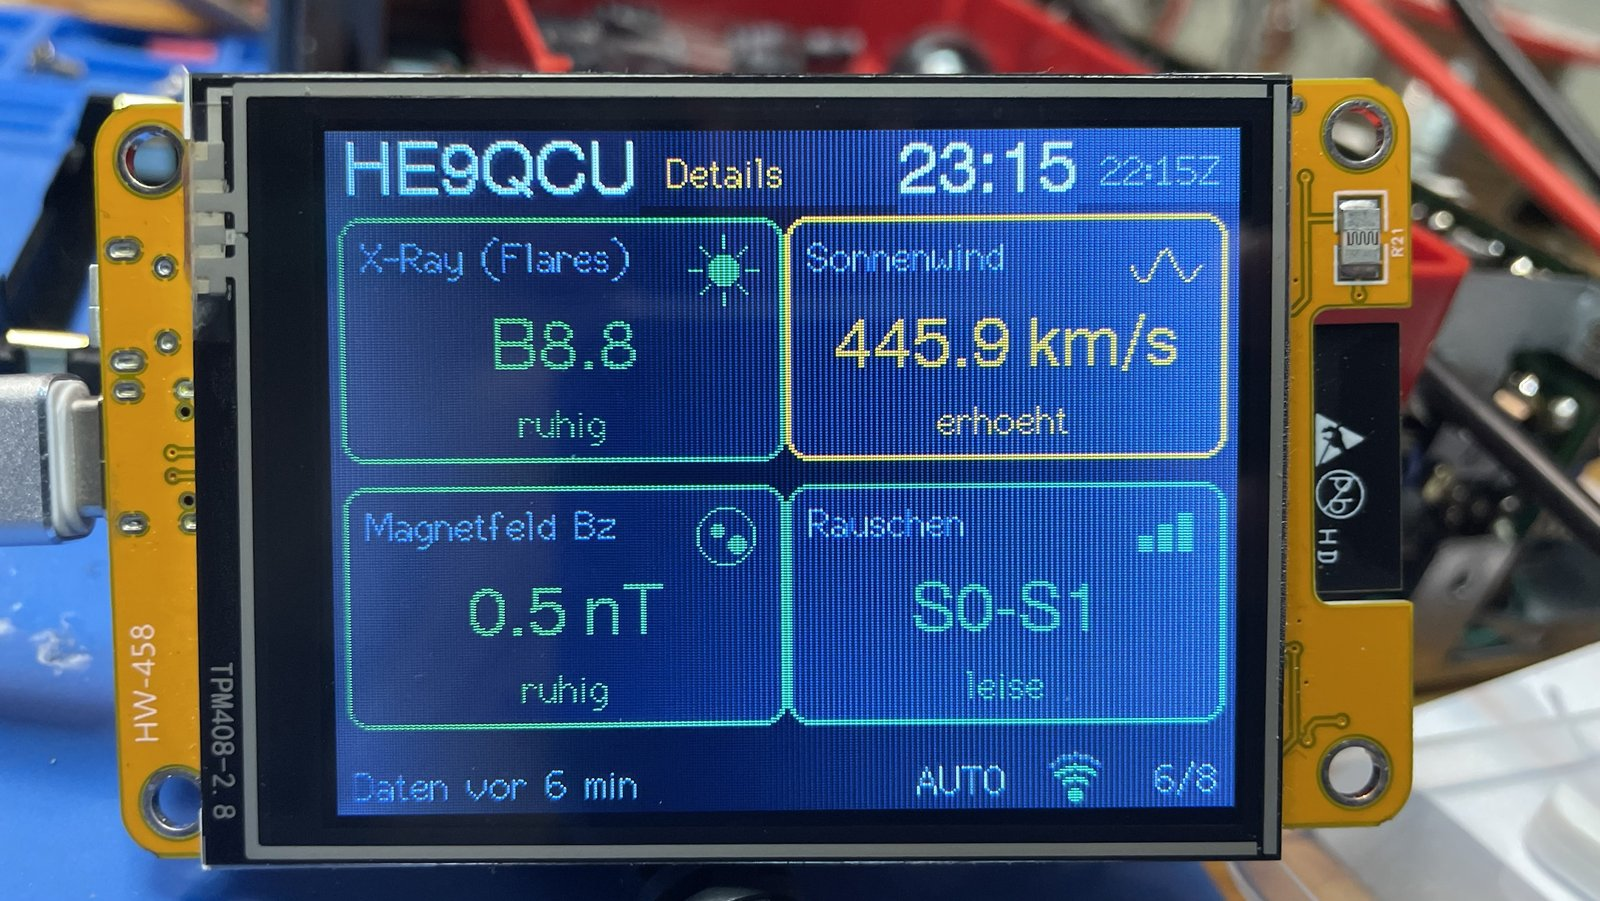
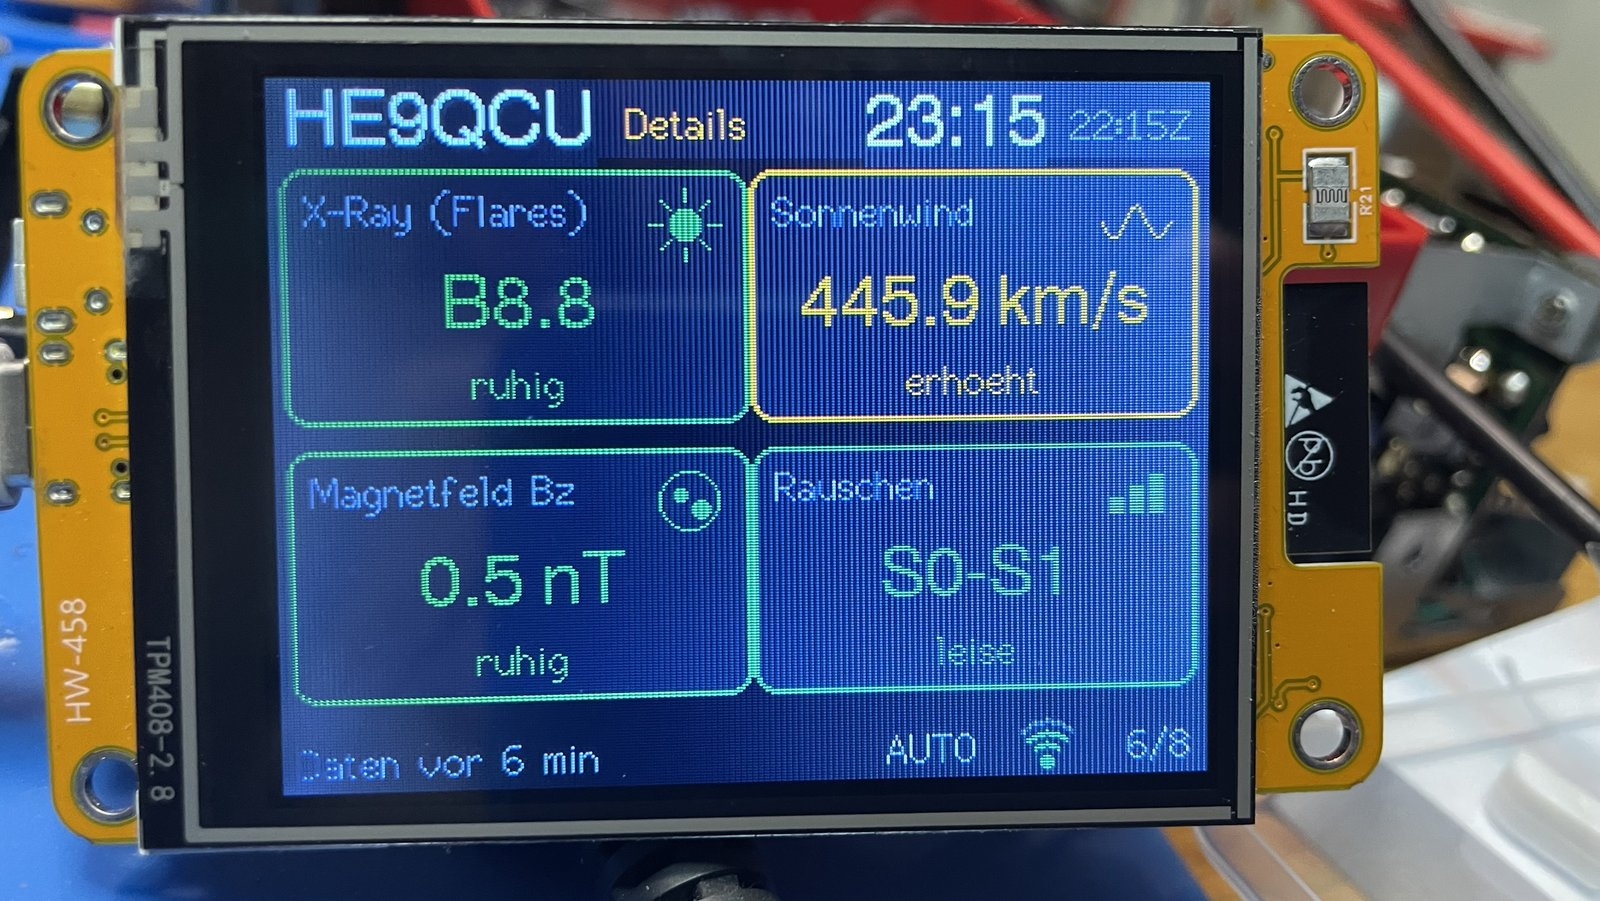
Neue Fotos Bänder, Modus, Live, Details (1.18.11)
Je Seite das schärfste von mehreren Fotos (Firmware 1.18.8). FW_VERSION und CHANGELOG auf 1.18.11.

diff --git a/CHANGELOG.md b/CHANGELOG.md
@@ -8,7 +8,8 @@ Zählung: Eine neue Funktion erhöht die mittlere Zahl (1.5.0 zu 1.6.0). Eine Fe
 
 | Version | Gemergt | PR | Inhalt |
 |---|---|---|---|
-| 1.18.10 | 2026-11-18 | dieser PR | Neue Fotos der Seiten Ampel, Sonne, Details, Info und Lizenz (Firmware 1.18.8, schärfer) |
+| 1.18.11 | 2026-11-18 | dieser PR | Neue Fotos der Seiten Bänder, Modus, Live und Details (Firmware 1.18.8) |
+| 1.18.10 | 2026-11-18 | [#40](https://github.com/MaShaoDe/Bandampel/pull/40) | Neue Fotos der Seiten Ampel, Sonne, Details, Info und Lizenz (Firmware 1.18.8, schärfer) |
 | 1.18.9 | 2026-11-18 | [#39](https://github.com/MaShaoDe/Bandampel/pull/39) | STATUS: Akku und Strom (Vorschlag), Bilder, Port |
 | 1.18.8 | 2026-11-18 | [#38](https://github.com/MaShaoDe/Bandampel/pull/38) | Bilder der 8 Display-Seiten und 7 Web-Reiter im Handbuch (docs/bilder/) |
 | 1.18.7 | 2026-11-18 | [#37](https://github.com/MaShaoDe/Bandampel/pull/37) | Nachbauanleitung (docs/Nachbauen.md), Release v1.18.6 im Skript |
